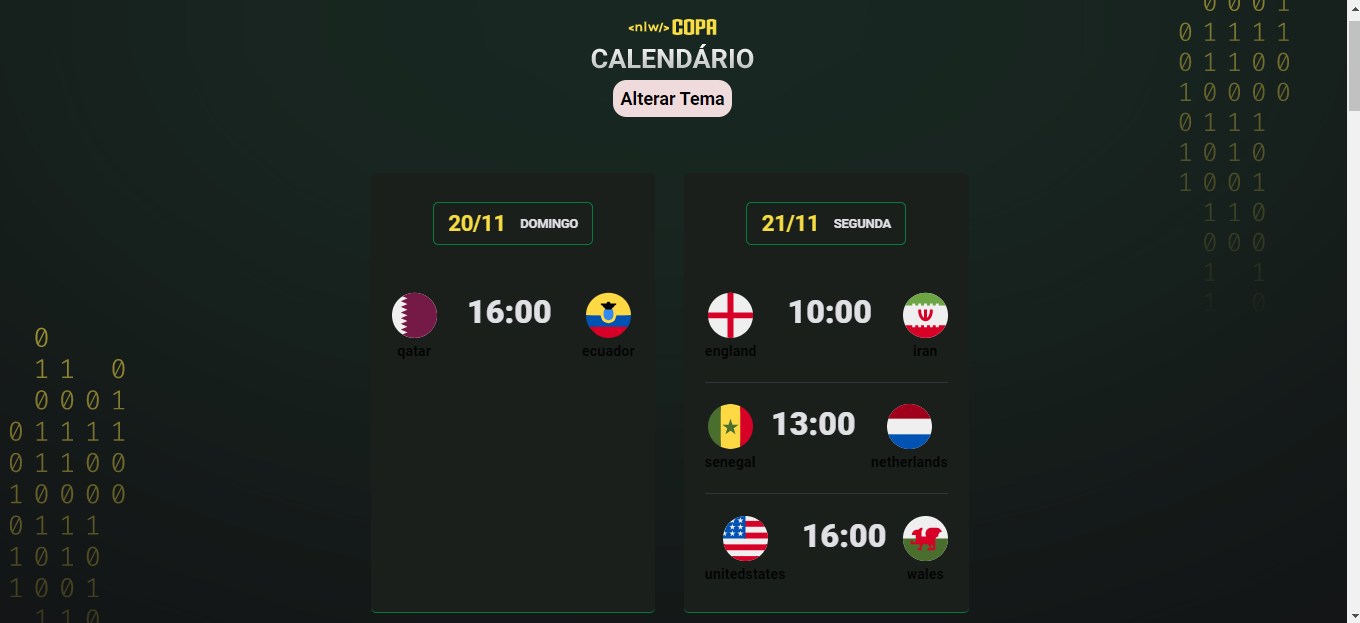
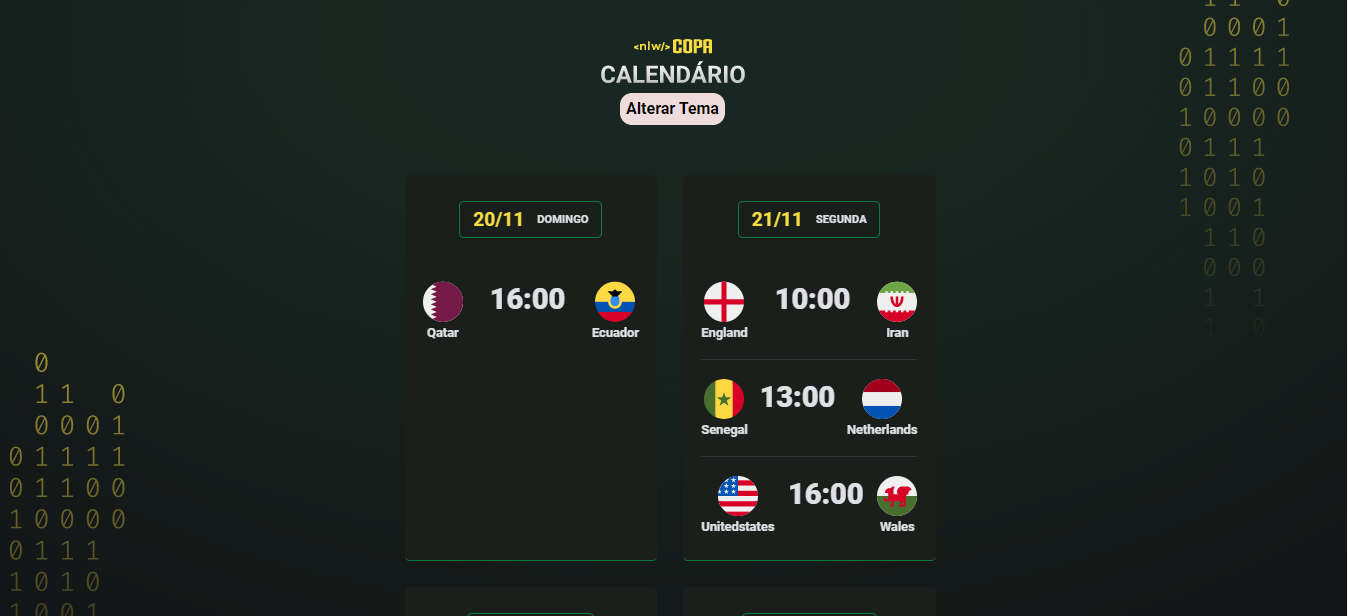
customize flag names

diff --git a/main.js b/main.js
@@ -34,79 +34,79 @@ function changeTheme() {
 
 document.querySelector("#cards").innerHTML = 
 
-  createCard("20/11", "domingo", createGame("qatar", "16:00", "ecuador"))+
+  createCard("20/11", "domingo", createGame("Qatar", "16:00", "Ecuador"))+
 
   createCard("21/11", "segunda", 
-  createGame("england", "10:00", "iran") + 
-  createGame("senegal", "13:00", "netherlands") + 
-  createGame("unitedstates", "16:00", "wales"))+
+  createGame("England", "10:00", "Iran") + 
+  createGame("Senegal", "13:00", "Netherlands") + 
+  createGame("Unitedstates", "16:00", "Wales"))+
 
   createCard("22/11", "terça", 
-  createGame("argentina", "07:00", "saudiarabia") + 
-  createGame("denmark", "10:00", "tunisia") + 
-  createGame("mexico", "13:00", "poland") + 
-  createGame("australia", "16:00", "france"))+
+  createGame("Argentina", "07:00", "Saudiarabia") + 
+  createGame("Denmark", "10:00", "Tunisia") + 
+  createGame("Mexico", "13:00", "Poland") + 
+  createGame("Australia", "16:00", "France"))+
 
   createCard("23/11", "quarta", 
-  createGame("morocco", "07:00", "croatia") + 
-  createGame("germany", "10:00", "japan") + 
-  createGame("spain", "13:00", "costarica") + 
-  createGame("belgium", "16:00", "canada"))+
+  createGame("Morocco", "07:00", "Croatia") + 
+  createGame("Germany", "10:00", "Japan") + 
+  createGame("Spain", "13:00", "CostaRica") + 
+  createGame("Belgium", "16:00", "Canada"))+
 
   createCard("24/11", "quinta", 
-  createGame("cameroon", "07:00", "switzerland") + 
-  createGame("southkorea", "10:00", "uruguay") + 
-  createGame("portugal", "13:00", "ghana") + 
-  createGame("brazil", "16:00", "serbia"))+
+  createGame("Cameroon", "07:00", "Switzerland") + 
+  createGame("Southkorea", "10:00", "Uruguay") + 
+  createGame("Portugal", "13:00", "Ghana") + 
+  createGame("Brazil", "16:00", "Serbia"))+
 
   createCard("25/11", "sexta", 
-  createGame("wales", "07:00", "iran") + 
-  createGame("qatar", "10:00", "senegal") + 
-  createGame("netherlands", "13:00", "ecuador") + 
-  createGame("england", "16:00", "unitedstates"))+
+  createGame("Wales", "07:00", "Iran") + 
+  createGame("Qatar", "10:00", "Senegal") + 
+  createGame("Netherlands", "13:00", "Ecuador") + 
+  createGame("England", "16:00", "Unitedstates"))+
 
   createCard("26/11", "sábado", 
-  createGame("tunisia", "07:00", "australia") + 
-  createGame("poland", "10:00", "saudiarabia") + 
-  createGame("france", "13:00", "denmark") + 
-  createGame("argentina", "16:00", "mexico"))+
+  createGame("Tunisia", "07:00", "Australia") + 
+  createGame("Poland", "10:00", "SaudiArabia") + 
+  createGame("France", "13:00", "Denmark") + 
+  createGame("Argentina", "16:00", "Mexico"))+
   
   createCard("27/11", "domingo", 
-  createGame("japan", "07:00", "costarica") + 
-  createGame("belgium", "10:00", "morocco") + 
-  createGame("croatia", "13:00", "canada") + 
-  createGame("germany", "16:00", "spain"))+
+  createGame("Japan", "07:00", "CostaRica") + 
+  createGame("Belgium", "10:00", "Morocco") + 
+  createGame("Croatia", "13:00", "Canada") + 
+  createGame("Germany", "16:00", "Spain"))+
 
   createCard("28/11", "segunda", 
-  createGame("serbia", "07:00", "cameroon") + 
-  createGame("southkorea", "10:00", "ghana") + 
-  createGame("brazil", "13:00", "switzerland") + 
-  createGame("portugal", "16:00", "uruguay"))+
+  createGame("Serbia", "07:00", "Cameroon") + 
+  createGame("Southkorea", "10:00", "Ghana") + 
+  createGame("Brazil", "13:00", "Switzerland") + 
+  createGame("Portugal", "16:00", "Uruguay"))+
 
 
   createCard("29/11", "terça", 
-  createGame("ecuador", "12:00", "senegal") + 
-  createGame("netherlands", "12:00", "qatar") + 
-  createGame("iran", "16:00", "unitedstates") + 
-  createGame("wales", "16:00", "england"))+
+  createGame("Ecuador", "12:00", "Senegal") + 
+  createGame("Netherlands", "12:00", "Qatar") + 
+  createGame("Iran", "16:00", "UnitedStates") + 
+  createGame("Wales", "16:00", "England"))+
 
   createCard("30/11", "quarta", 
-  createGame("tunisia", "12:00", "france") + 
-  createGame("australia", "12:00", "denmark") + 
-  createGame("poland", "16:00", "argentina") + 
-  createGame("saudiarabia", "16:00", "mexico"))+
+  createGame("Tunisia", "12:00", "France") + 
+  createGame("Australia", "12:00", "Denmark") + 
+  createGame("Poland", "16:00", "Argentina") + 
+  createGame("SaudiArabia", "16:00", "Mexico"))+
 
   createCard("01/12", "quinta", 
-  createGame("croatia", "12:00", "belgium") + 
-  createGame("canada", "12:00", "morocco") + 
-  createGame("japan", "16:00", "spain") + 
-  createGame("costarica", "16:00", "germany"))+
+  createGame("Croatia", "12:00", "Belgium") + 
+  createGame("Canada", "12:00", "Morocco") + 
+  createGame("Japan", "16:00", "Spain") + 
+  createGame("Costarica", "16:00", "Germany"))+
 
   createCard("02/12", "sexta", 
-  createGame("southkorea", "12:00", "portugal") + 
-  createGame("ghana", "12:00", "uruguay") + 
-  createGame("serbia", "16:00", "switzerland") + 
-  createGame("cameroon", "16:00", "brazil"))
+  createGame("SouthKorea", "12:00", "Portugal") + 
+  createGame("Ghana", "12:00", "Uruguay") + 
+  createGame("Serbia", "16:00", "Switzerland") + 
+  createGame("Cameroon", "16:00", "Brazil"))
 
   
 

diff --git a/style.css b/style.css
@@ -9,6 +9,7 @@
   --title-border-card-color: #746615;
   --card-bg-color: #1d1c19;
   --bg-card: url(./assets/bg.svg);
+  --text-color: #E1E1E6;
 }
 
 body.blue {
@@ -100,7 +101,7 @@ header {
 }
 
 .card h2 span {
-  color: #E1E1E6;
+  color: var(--text-color);
   font-size: 14px;
   text-transform: uppercase;
 }
@@ -116,6 +117,10 @@ header {
 .card ul li {
   display: flex;
   justify-content: space-between;
+}
+
+.card ul li  {
+  color: var(--text-color);
 }
 
 .card ul li + li {
